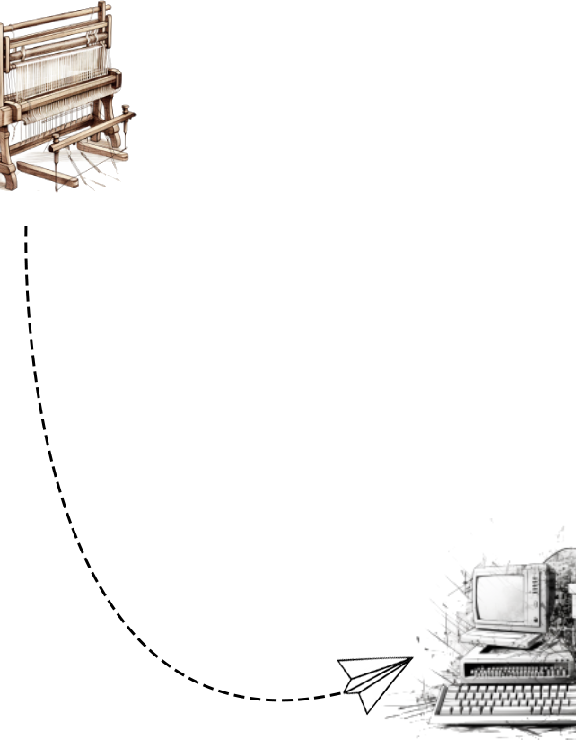
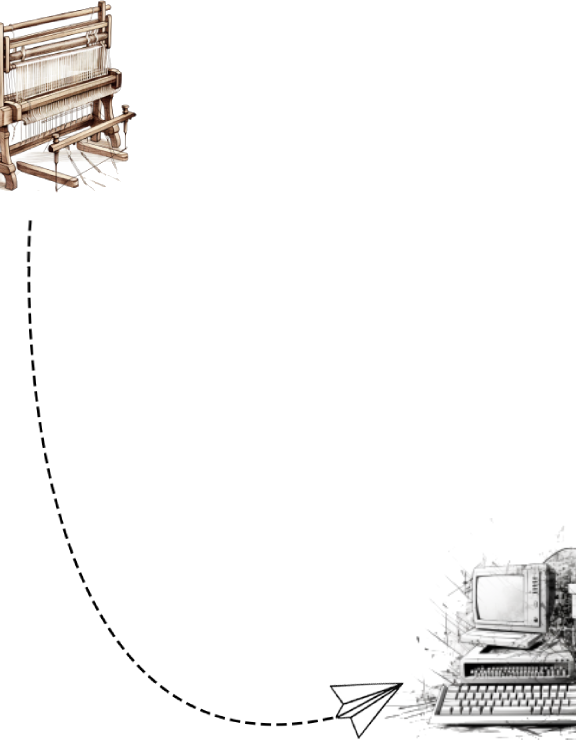
nft

diff --git a/src/components/NFT/NFT.scss b/src/components/NFT/NFT.scss
@@ -13,7 +13,7 @@ $black: #272727;
   position: relative;
   background-image: url("../../../public/nft.png"), url("../../../public/nft-send.png");
   background-repeat: no-repeat;
-  background-position-y: 0%, 40%;
+  background-position-y: 0%, 42%;
   background-size: contain;
 
 }
